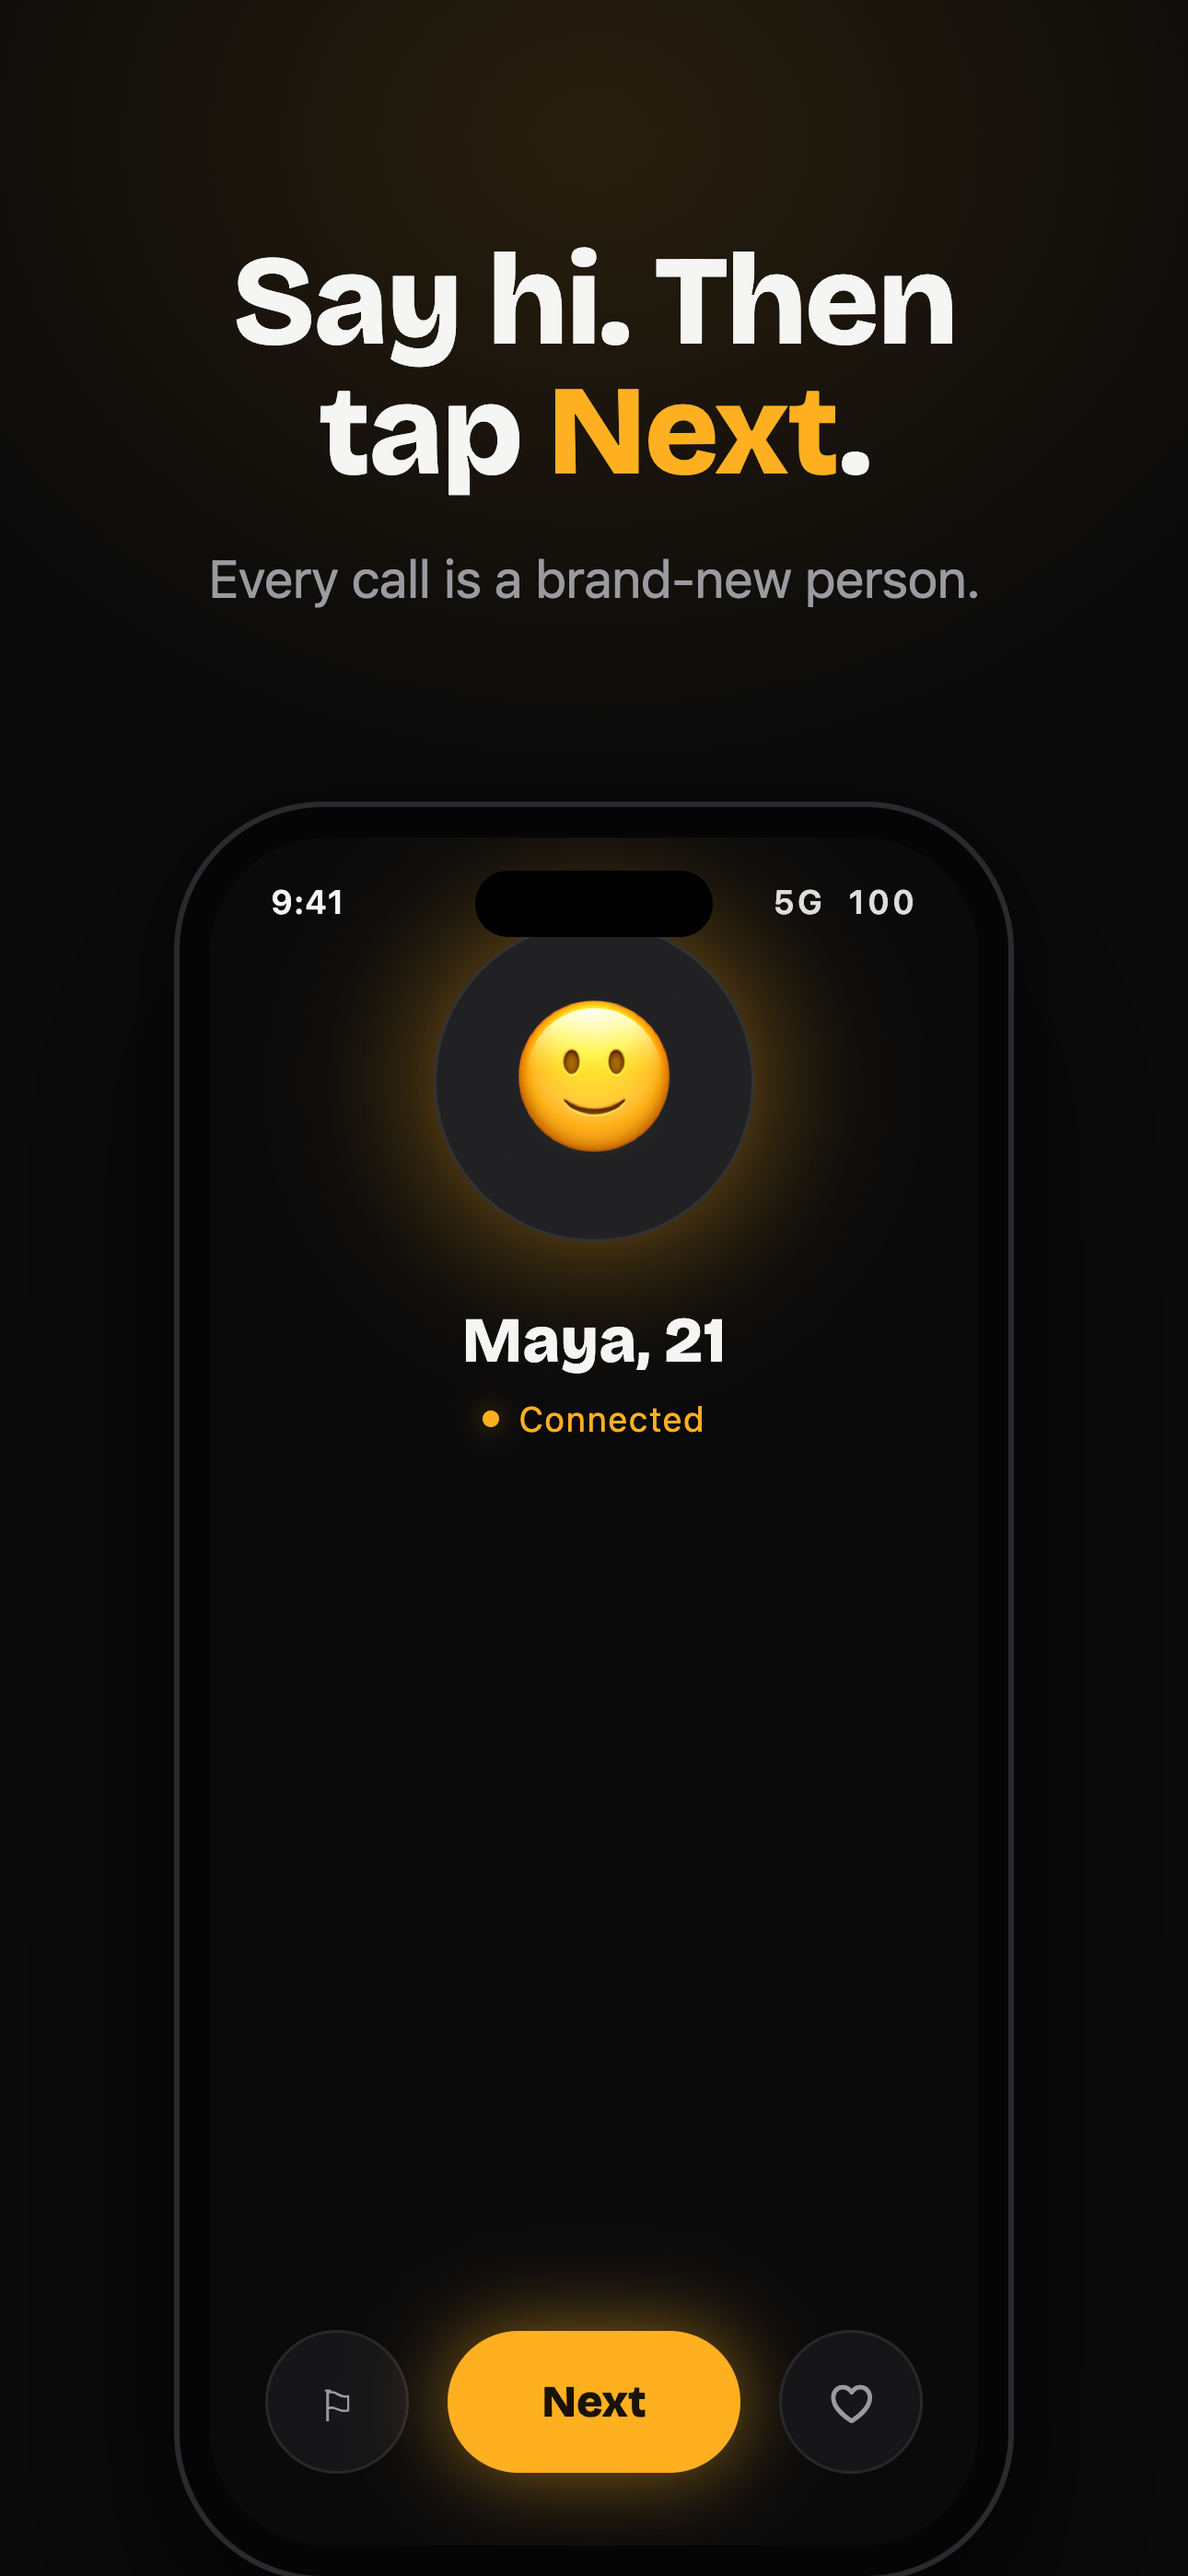
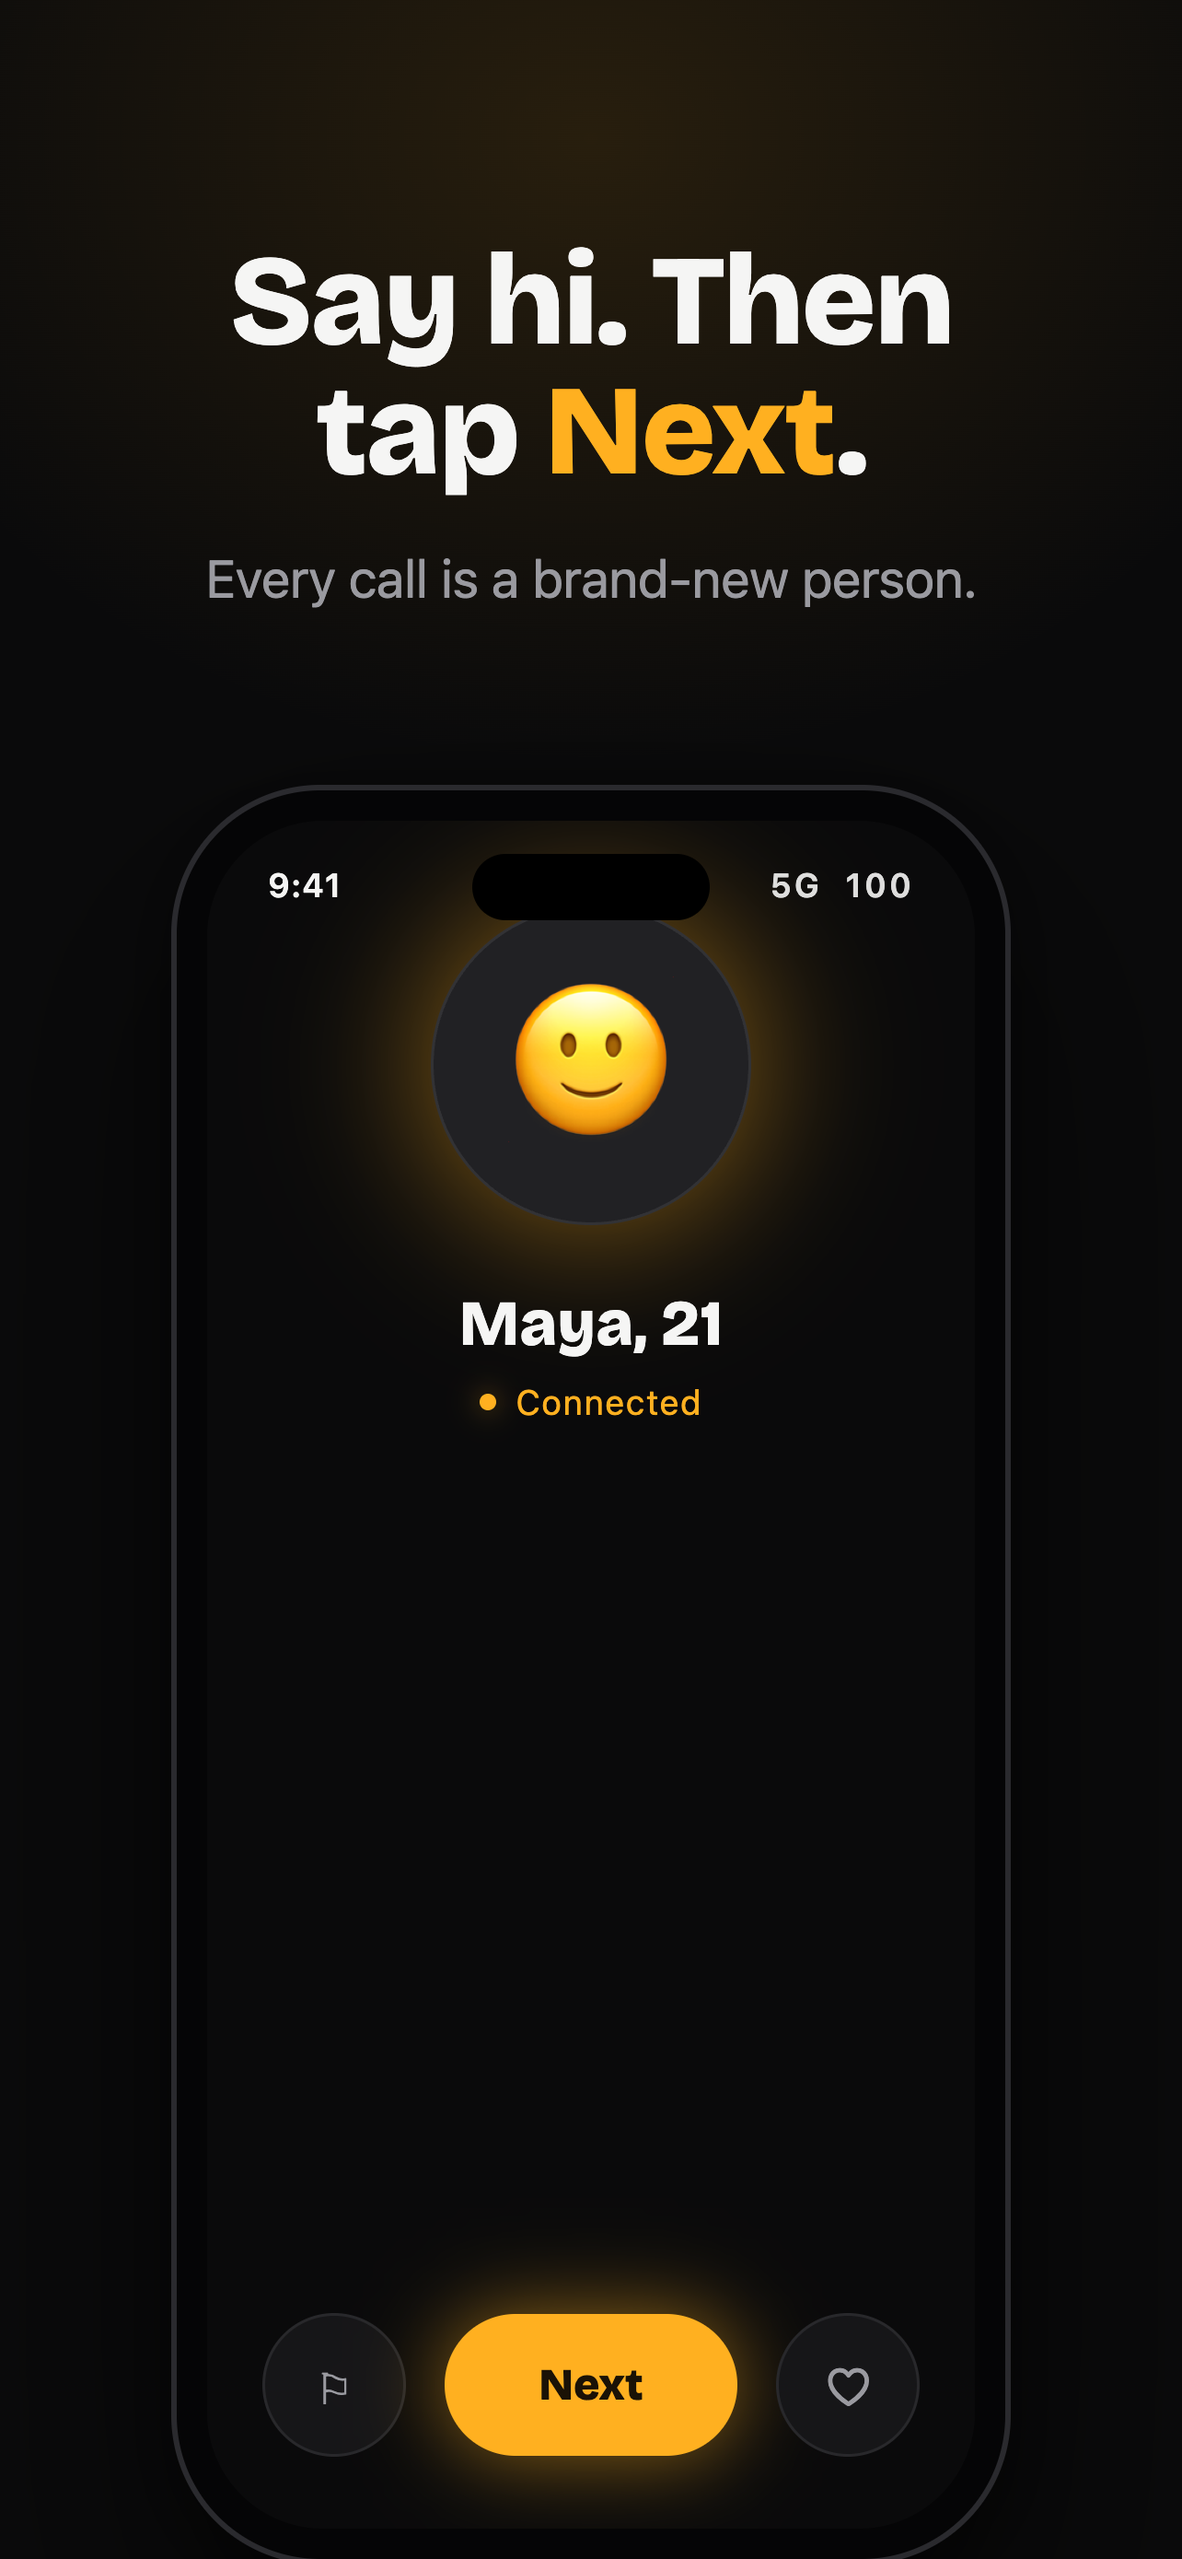
fix(screenshots): render at 1284x2778 (App Store-accepted 6.5" size)
ASC rejected 1290x2796 (6.7") for this iPhone slot — it wants 1242x2688 or
1284x2778. Re-rendered all 4 at 428x926 @3x = 1284x2778; updated render.sh + docs.

diff --git a/screenshots/shot.css b/screenshots/shot.css
@@ -21,12 +21,12 @@
 
 * { margin: 0; padding: 0; box-sizing: border-box; }
 
-html, body { width: 430px; height: 932px; }
+html, body { width: 428px; height: 926px; } /* 6.5": 428x926 @3x = 1284x2778 */
 
 .scene {
   position: relative;
-  width: 430px;
-  height: 932px;
+  width: 428px;
+  height: 926px;
   overflow: hidden;
   background: var(--bg);
   font-family: var(--body);

diff --git a/screenshots/README.md b/screenshots/README.md
@@ -1,23 +1,23 @@
 # Glance — App Store screenshots
 
-Designed marketing screenshots for the App Store listing — **6.7″, 1290×2796**.
+Designed marketing screenshots for the App Store listing — **6.5″, 1284×2778**,
+an App Store Connect-accepted iPhone size (it also covers smaller devices).
 Charcoal + a single amber, matching the app and site (Bricolage Grotesque captions),
 rendered from HTML via headless Chrome at deviceScaleFactor 3.
 
 ## Files
-- `scene-1..4.html` + `shot.css` — the source scenes
+- `scene-1..4.html` + `shot.css` — the source scenes (authored at 428×926 logical)
 - `png/01-home.png` — "One tap. Someone new." (the radar / get-matched home)
 - `png/02-onboarding.png` — "Matched, not random." (a vivid onboarding question)
 - `png/03-call.png` — "Say hi. Then tap Next." (the matched / connect moment)
 - `png/04-safety.png` — "Verified. 18+. Never recorded." (trust)
 
 ## Re-render
-`./render.sh` (requires Google Chrome). Edit the copy/screens in the HTML and re-run.
+`./render.sh` (requires Google Chrome). Edit the copy/screens in the HTML, re-run.
+App Store Connect accepts **1242×2688** or **1284×2778** for this iPhone slot; this
+set is 1284×2778. For 1242×2688, change `--window-size=428,926` → `414,896`.
 
 ## Notes
-- **1290×2796 (6.7″) is the size App Store Connect requires**; it auto-scales for
-  smaller iPhones, so this one set covers the iPhone requirement. (For a separate
-  6.5″ set, the scene width would need to be parameterized — easy to add.)
 - Names/counts ("Maya, 21", "128 online") are illustrative placeholders.
 - The call scene shows the connect / "say hi" beat with the partner's avatar — an
   honest stylization, not a fabricated live-video frame.
